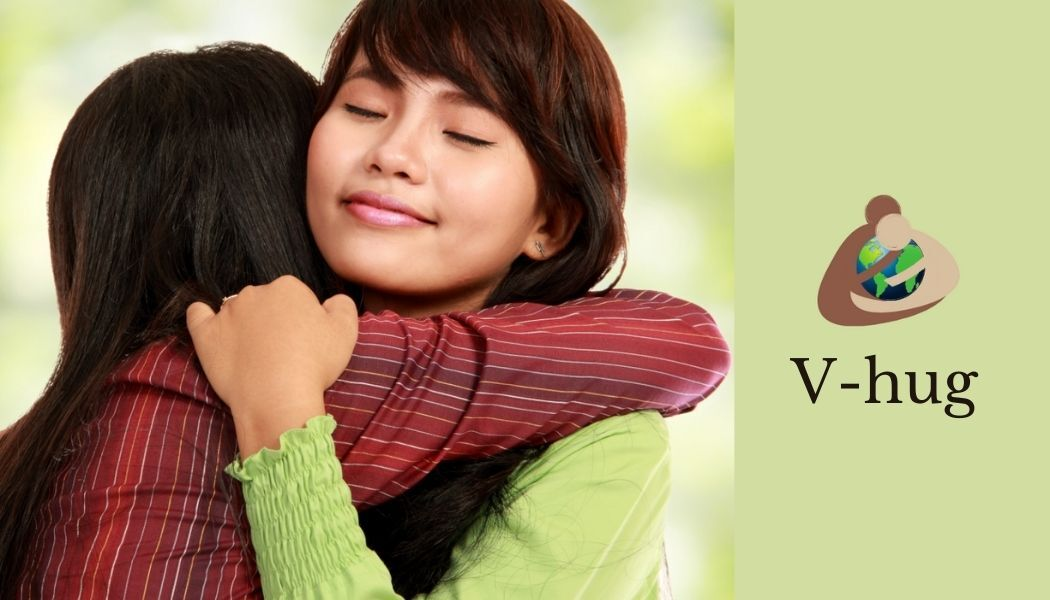
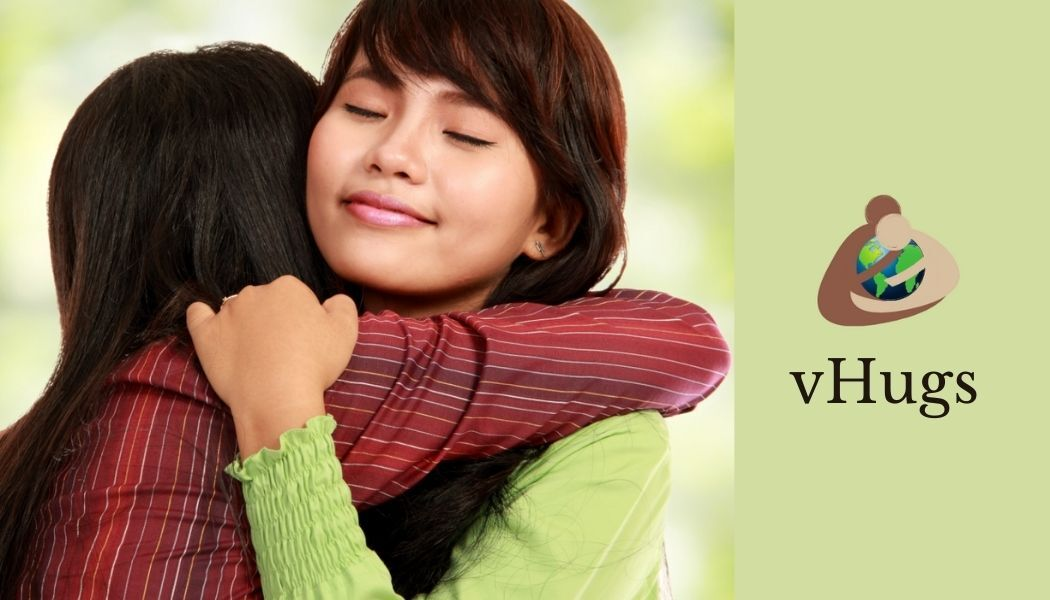
more style changes

Changed region(s): [[0.7314, 0.6, 0.9448, 0.72]]

diff --git a/src/app/components/login/login.component.html b/src/app/components/login/login.component.html
@@ -1,16 +1,29 @@
-<img src="assets/business-card.jpg"
-                 height="400"
-                 width="800"
-            />
-            <div class="container">
+
+<img src="assets/bestbannerofalltimethegreatestevermadeilovecheesecake.png"/>
+
+<div class="container">
             <div class="row align-items-center">
-                <div class="col-3">
+                <div class="col-4">
                 </div>
-                <div class="col-7">
-                    Username: <input type="text" name="username" [(ngModel)]="username">
-                    <button type="button" (click)="handleLogin()">Login</button>
+                <div class="col-4">
+                  <div class="card" style="width: 18rem;">
+                    <div class="card-body">
+                      <h5 class="card-title">Login to vHugs</h5>
+                      <input type="text" name="username" [(ngModel)]="username" placeholder="Username">
+                      <button type="button" class="btn btn-primary" (click)="handleLogin()" style="background-color:#003399">Login</button>
+                    </div>
+                  </div>
                 </div>
-                <div class="col-3">
+                <div class="col-4">
                 </div>
               </div>
             </div>
+
+
+            <!-- <div class="card" style="width: 18rem;">
+              <div class="card-body">
+                <h5 class="card-title">Login to vHugs</h5>
+                <input type="text" name="username" [(ngModel)]="username" placeholder="Username">
+                <button type="button" (click)="handleLogin()">Login</button>
+              </div>
+            </div> -->

diff --git a/src/app/components/addpost/addpost.component.html b/src/app/components/addpost/addpost.component.html
@@ -4,9 +4,23 @@
 <input type="text" name="subject" [(ngModel)]="subject" placeholder="Subject">
 <input type="text" name="body" [(ngModel)]="body" placeholder="Body">
 <button type="submit"(click)="addPost()">Add Post</button>
+</div> -->
 
 
 
+
+  
+
+
+
+<div class="mb-3">
+    <label for="exampleFormControlInput1" class="form-label">Subject</label>
+    <input type="text" class="form-control" id="exampleFormControlInput1" placeholder="Subject" [(ngModel)]="subject">
+  </div>
+  <div class="mb-3">
+    <label for="exampleFormControlTextarea1" class="form-label">Post</label>
+    <textarea class="form-control" id="exampleFormControlTextarea1" rows="3" [(ngModel)]="body"></textarea>
+  </div>
 
   <div id="menu">
     <button class="btn btn-primary dropdown-toggle" type="button" id="dropdownMenuButton" data-toggle="dropdown" aria-haspopup="true" aria-expanded="false">
@@ -16,14 +30,3 @@
        <li *ngFor="let tag of myHashtags"><a [routerLink]="['/classRes']">{{tag.hashtag}}</a></li>
    </ul>
 </div>
-</div> -->
-
-
-<div class="mb-3">
-    <label for="exampleFormControlInput1" class="form-label">Email address</label>
-    <input type="email" class="form-control" id="exampleFormControlInput1" placeholder="name@example.com">
-  </div>
-  <div class="mb-3">
-    <label for="exampleFormControlTextarea1" class="form-label">Example textarea</label>
-    <textarea class="form-control" id="exampleFormControlTextarea1" rows="3"></textarea>
-  </div>

diff --git a/src/app/components/header/header.component.html b/src/app/components/header/header.component.html
@@ -16,8 +16,9 @@
             <li class="nav-item">
                 <li *ngIf="loginService.isUserLoggedIn"><a routerLink="upload" class="nav-link" style="color:white">Upload File</a>
             </li>
-            <li class>
-                <li *ngIf="loginService.isUserLoggedIn"><a routerLink="addpost"><button type="submit" class="btn btn-outline-warning" style="color:white">New Post</button></a> 
+            <li class="nav-item">
+                <li *ngIf="loginService.isUserLoggedIn"><a routerLink="addpost" class="nav-link" style="color:white">New Post</a>
+                <!-- <li *ngIf="loginService.isUserLoggedIn"><a routerLink="addpost"><button type="submit" class="btn btn-outline-warning" style="color:white">New Post</button></a>  -->
             </li>
 
         </ul>
@@ -25,7 +26,7 @@
         <ul class="navbar-nav navbar-collapse justify-content-end">
             
            <li *ngIf="loginService.isUserLoggedIn" class="nav-link" style="color: #CCFFFF;">{{this.loginService.getUsername()}}</li>
-            <li *ngIf="loginService.isUserLoggedIn"><a routerLink="logout" class="nav-link" style="color:white">Logout</a></li> 
+            <li *ngIf="loginService.isUserLoggedIn"><a routerLink="logout"><button type="submit" class="btn btn-outline-warning" style="color:white">Logout</button></a>
         </ul>
 </nav>
 </header>

diff --git a/src/app/app-routing.module.ts b/src/app/app-routing.module.ts
@@ -16,6 +16,7 @@ import { TechComponent } from './components/resources/tech/tech.component';
 import { FinancialComponent } from './components/resources/financial/financial.component';
 import { TransportationComponent } from './components/resources/transportation/transportation.component';
 import { CrimeComponent } from './components/resources/crime/crime.component';
+import {TestComponent} from '../app/components/test/test.component';
 
 const routerOptions: ExtraOptions = {
   scrollPositionRestoration: 'enabled',
@@ -38,6 +39,7 @@ const routes: Routes = [
   {path:"tech",component:TechComponent,canActivate:[RouteGuardService]},
   {path:"financial",component:FinancialComponent,canActivate:[RouteGuardService]},
   {path:"transportation",component:TransportationComponent,canActivate:[RouteGuardService]},
+  {path:"test",component:TestComponent,canActivate:[RouteGuardService]},
 
 
   {path: '**', redirectTo:'login'}

diff --git a/src/app/components/upload/upload.component.ts b/src/app/components/upload/upload.component.ts
@@ -2,6 +2,7 @@ import { Component, OnInit } from '@angular/core';
 import { UploadFileService } from 'src/app/services/upload-file.service';
 import { HttpEventType, HttpResponse } from '@angular/common/http';
 import { Observable } from 'rxjs';
+import { Router } from '@angular/router';
 
 @Component({
   selector: 'app-upload',
@@ -27,7 +28,7 @@ export class UploadComponent implements OnInit {
     this.fileInfos = this.uploadService.getFiles();
   }
 
-  constructor(private uploadService: UploadFileService) { }
+  constructor(private uploadService: UploadFileService,private router:Router) { }
 
   selectFile(event) {
     this.selectedFiles = event.target.files;
@@ -63,6 +64,7 @@ export class UploadComponent implements OnInit {
       this.fileInfos = this.uploadService.getFiles();
     })
     
+    this.router.navigate(['test']);
     
   }
 

diff --git a/src/app/app.module.ts b/src/app/app.module.ts
@@ -21,6 +21,7 @@ import { InsecurityComponent } from './components/resources/insecurity/insecurit
 import { TechComponent } from './components/resources/tech/tech.component';
 import { FinancialComponent } from './components/resources/financial/financial.component';
 import { TransportationComponent } from './components/resources/transportation/transportation.component';
+import { TestComponent } from './components/test/test.component';
 
 @NgModule({
   declarations: [
@@ -40,7 +41,8 @@ import { TransportationComponent } from './components/resources/transportation/t
     InsecurityComponent,
     TechComponent,
     FinancialComponent,
-    TransportationComponent
+    TransportationComponent,
+    TestComponent
   ],
   imports: [
     BrowserModule,

diff --git a/src/app/components/test/test.component.spec.ts b/src/app/components/test/test.component.spec.ts
@@ -1,0 +1,25 @@
+import { async, ComponentFixture, TestBed } from '@angular/core/testing';
+
+import { TestComponent } from './test.component';
+
+describe('TestComponent', () => {
+  let component: TestComponent;
+  let fixture: ComponentFixture<TestComponent>;
+
+  beforeEach(async(() => {
+    TestBed.configureTestingModule({
+      declarations: [ TestComponent ]
+    })
+    .compileComponents();
+  }));
+
+  beforeEach(() => {
+    fixture = TestBed.createComponent(TestComponent);
+    component = fixture.componentInstance;
+    fixture.detectChanges();
+  });
+
+  it('should create', () => {
+    expect(component).toBeTruthy();
+  });
+});

diff --git a/src/app/components/test/test.component.ts b/src/app/components/test/test.component.ts
@@ -1,0 +1,17 @@
+import { Component, OnInit } from '@angular/core';
+import { Router } from '@angular/router';
+
+@Component({
+  selector: 'app-test',
+  templateUrl: './test.component.html',
+  styleUrls: ['./test.component.css']
+})
+export class TestComponent implements OnInit {
+
+  constructor(private router:Router) { }
+
+  ngOnInit(): void {
+    this.router.navigate(['upload']);
+  }
+
+}

diff --git a/src/app/components/login/login.component.css b/src/app/components/login/login.component.css
@@ -1,0 +1,19 @@
+img{
+    padding-top: 10px;
+   /* position: relative; */
+    
+    
+
+}
+
+.card{
+    text-align: center;
+    margin-top: 15px;
+    border-style: solid;
+    
+}
+
+button{
+    margin-top: 5px;
+    
+}

diff --git a/src/app/components/test/test.component.html b/src/app/components/test/test.component.html
@@ -1,0 +1,1 @@
+<p>test works!</p>
